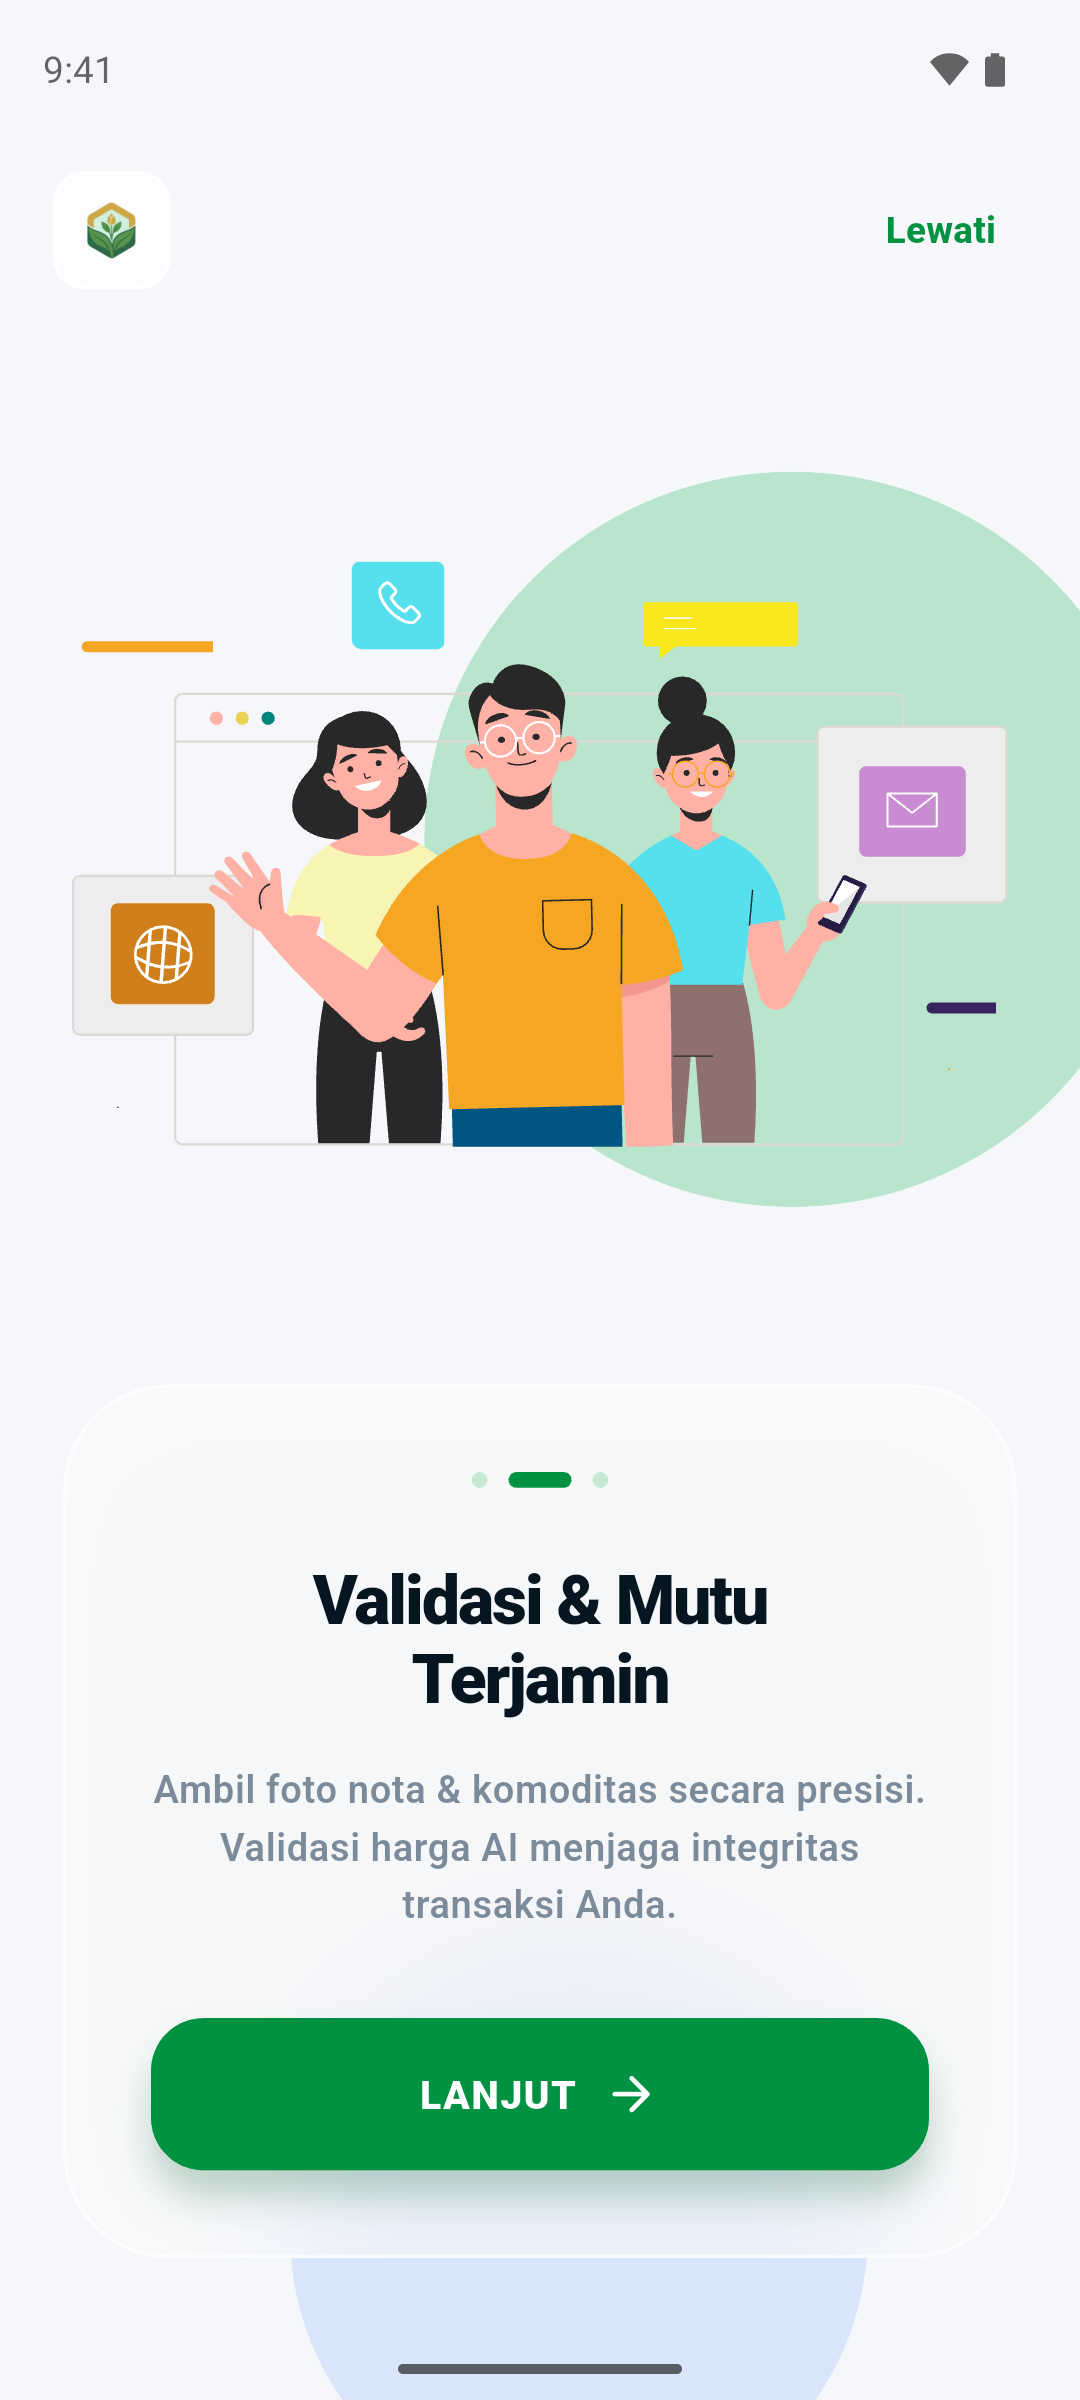
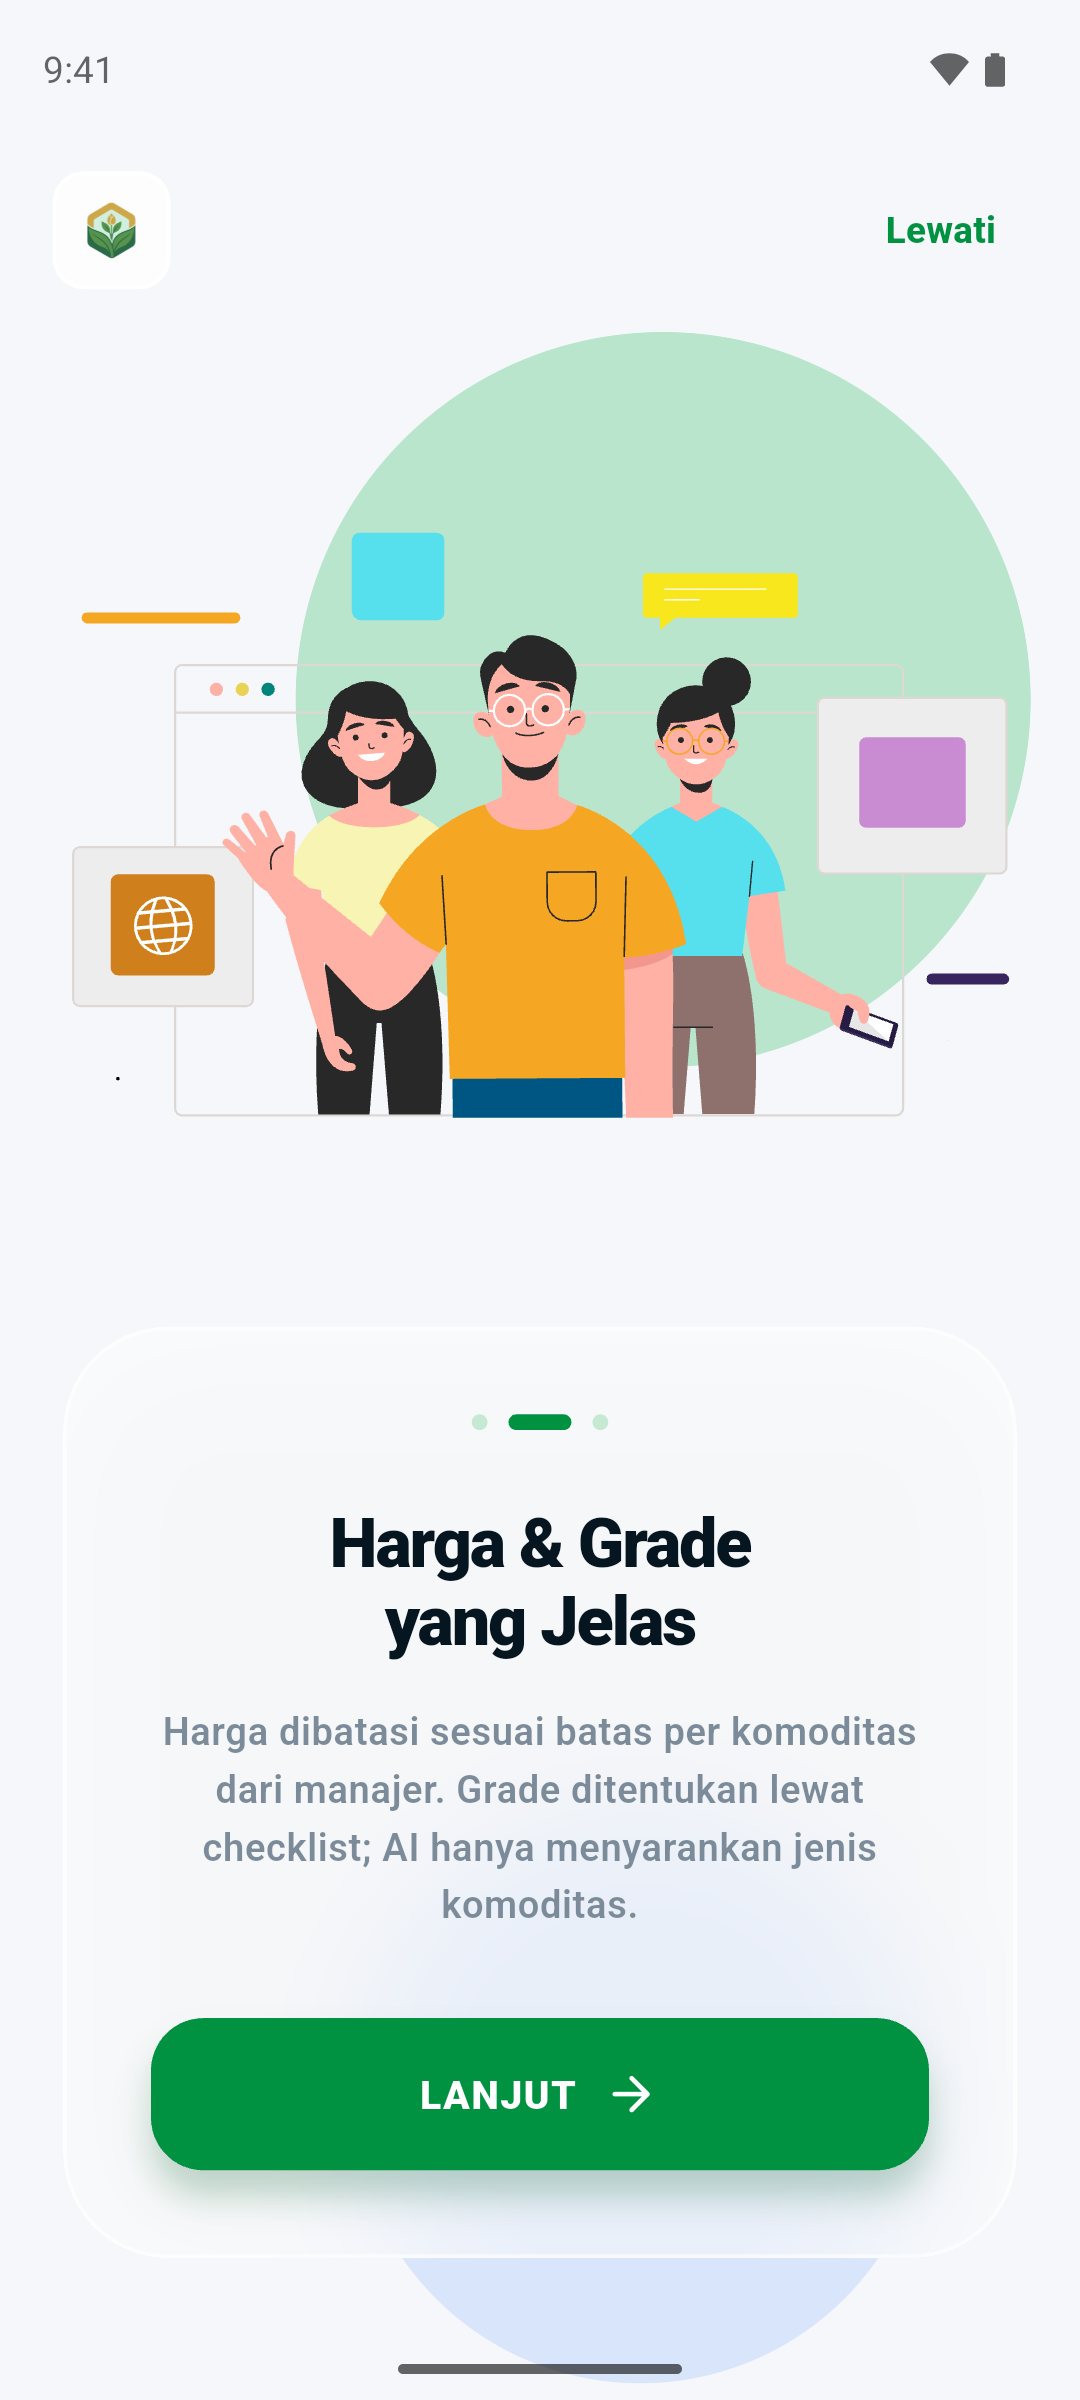
docs(screenshots): retake camera, onboarding, and offline screens with real photos
Camera screens now photograph public-dataset palm and coffee images
placed as posters in the emulator virtual scene, plus a demo receipt
marked as fictional. New shots: honest onboarding text, proof photos in
the transaction detail, OCR and router output as produced, kasbon and
rubric notice, GPS denied in the emulator, the manager's notifications,
and the new commodity load error. The flow grows to 42 files; all PNGs
were recompressed losslessly (pixel-identical) to stay under 15 MB.
INDEX.md credits both datasets and drops the fixed onboarding note.

Changed region(s): [[0.0611, 0.125, 1.0, 0.5], [0.1528, 0.5625, 0.8556, 0.8125], [0.275, 0.9375, 0.7944, 1.0]]

diff --git a/docs/screenshots/INDEX.md b/docs/screenshots/INDEX.md
@@ -1,47 +1,63 @@
 # Screenshots
 
-**Demo data, Nov 2026.** All names, villages, amounts, and transactions are fictional and were seeded into Hive by [`tool/demo/demo_main.dart`](../../tool/demo/demo_main.dart). The app never reached MongoDB Atlas or Cloudinary while these were taken: the demo entrypoint blocks database connections and allows HTTP only to OpenStreetMap tiles.
+**Demo data, Nov 2026.** All names, villages, amounts, and transactions are fictional and were seeded into Hive by [`tool/demo/demo_main.dart`](../../tool/demo/demo_main.dart). The app never reached MongoDB Atlas or Cloudinary while these were taken: the demo entrypoint blocks database connections and allows HTTP only to OpenStreetMap tiles. Notification texts are the ones the app itself produces.
 
-Captured on an Android emulator (API 35, 1080x2400, light mode) with the status bar in SystemUI demo mode (9:41, full battery). The UI language is the app's own (Indonesian). Camera screens show the **emulator camera feed**, not real photos of receipts or crops. Map tiles © [OpenStreetMap](https://www.openstreetmap.org/copyright) contributors.
+Captured on an Android emulator (API 35, 1080x2400, light mode) with the status bar in SystemUI demo mode (9:41, full battery). The UI language is the app's own (Indonesian). Map tiles © [OpenStreetMap](https://www.openstreetmap.org/copyright) contributors.
 
 The account names Asep, Dudung, and `manajer` match the team's test accounts, but no real login took place: the session was seeded locally, because logging in always checks the password against Atlas.
+
+## Camera screens
+
+Camera screens are the **emulator camera feed** (Android emulator virtual scene), not photos taken in the field. Real public-dataset photos were loaded as posters in that scene and photographed through the app's camera:
+
+- Oil palm bunches: Suharjito & Junior, "Annotated Video Dataset of Oil Palm Fruit Bunch Piles for Ripeness Grading", Science Data Bank, DOI [10.57760/sciencedb.j00001.00713](https://doi.org/10.57760/sciencedb.j00001.00713), CC BY 4.0.
+- Green coffee beans: CBD Coffee Beans Dataset, Mendeley Data, DOI [10.17632/52877z55vr.1](https://doi.org/10.17632/52877z55vr.1), CC BY 4.0.
+
+The receipt is a generated image marked "CONTOH / DEMO - FIKTIF" with a "DEMO · FIKTIF" watermark; it is not a real receipt. Commodity suggestions are shown exactly as the router produced them; nothing was adjusted.
+
+## Flow
 
 | File | Screen | Role | State | Notes |
 | :--- | :--- | :--- | :--- | :--- |
 | `01-splash.png` | Splash | All | First launch | |
-| `02-onboarding-1.png` | Onboarding 1/3 | All | First launch | Copy is the app's own text |
-| `03-onboarding-2.png` | Onboarding 2/3 | All | First launch | Copy mentions "AI price validation"; the app does not do that (AI only suggests the commodity) |
-| `04-onboarding-3.png` | Onboarding 3/3 | All | First launch | Copy says "realtime"; sync only runs while the app is open |
+| `02-onboarding-1.png` | Onboarding 1/3 | All | First launch | Offline recording, sent when the connection returns |
+| `03-onboarding-2.png` | Onboarding 2/3 | All | First launch | Price limit per commodity, grade by checklist, AI only suggests the commodity |
+| `04-onboarding-3.png` | Onboarding 3/3 | All | First launch | Manager map and totals from synced data |
 | `05-login.png` | Login | All | Empty form | |
 | `06-login-gagal-offline.png` | Login | All | Login failed, no server | Expected: first login needs the server |
 | `07-agen-beranda.png` | Home | Collector | 7 transactions, 2 pending | |
 | `08-agen-beranda-transaksi.png` | Home (scrolled) | Collector | Max prices, latest transactions | Pending and synced badges |
-| `09-agen-detail-pending.png` | Transaction detail | Collector | Pending sync, kasbon deduction | No photos in seeded data |
-| `10-agen-notifikasi.png` | Notifications | Collector | Sync pending, GPS failed | Seeded notifications |
+| `09-agen-detail-foto.png` | Transaction detail | Collector | Pending, kasbon deduction, proof photos | Seeded local files: dataset palm photo and the demo receipt |
+| `10-agen-notifikasi.png` | Notifications | Collector | Sync failed, saved, synced | App-generated texts |
 | `11-agen-pasar.png` | Market prices | Collector | Max price per grade | |
 | `12-agen-tren-harga.png` | Price trend | Collector | Current max price only | Price history is not stored yet |
 | `13-agen-riwayat.png` | History | Collector | All transactions | |
 | `14-agen-profil-cek-server-gagal.png` | Profile | Collector | Server check failed, never synced, 2 waiting | Last-synced state |
 | `15-agen-mitra-sync-gagal.png` | Farmers | Collector | Sync failed, 2 waiting | |
 | `16-agen-izin-kamera.png` | Camera permission | Collector | Android permission prompt | |
-| `17-agen-kamera-nota.png` | Scanner menu | Collector | Before photos | |
-| `18-agen-kamera-feed.png` | Camera | Collector | Receipt photo 1/2 | Emulator camera feed |
-| `19-agen-sudut-nota.png` | Corner adjust | Collector | Receipt warp | Emulator camera feed |
+| `17-agen-kamera-menu.png` | Scanner menu | Collector | Before photos | |
+| `18-agen-kamera-nota-poster.png` | Camera | Collector | Receipt photo 1/2 | Emulator camera feed; demo receipt poster |
+| `19-agen-sudut-nota.png` | Corner adjust | Collector | Auto-detected corners | Emulator camera feed; corners left as detected (they do not fit the receipt exactly) |
 | `20-agen-kamera-nota-ok.png` | Scanner menu | Collector | Receipt photo taken | Emulator camera feed thumbnail |
-| `21-agen-form-transaksi.png` | Transaction form | Collector | No commodity suggestion | The router found no commodity in the emulator feed |
-| `22-agen-form-dua-foto.png` | Transaction form | Collector | Two photos attached | Emulator camera feed |
-| `23-agen-rubrik-grade.png` | Grade rubric | Collector | Checklist answered, grade A | Rubric `v0.1-draf`, not reviewed by an expert |
-| `24-agen-harga-maks-ditolak.png` | Transaction form | Collector | Price above max reset to the limit | |
-| `25-agen-izin-lokasi.png` | Location permission | Collector | Android permission prompt | Denied on purpose for the next state |
-| `26-agen-simpan-gps-gagal.png` | Save result | Collector | Saved without GPS | Location stored as null |
-| `27-agen-pencairan-kasbon.png` | Kasbon disbursement | Collector | Current debt shown | |
-| `28-agen-pencairan-tersimpan.png` | Disbursement result | Collector | Saved locally, queued | Debt grows from Rp1.7M to Rp2.2M |
-| `29-agen-riwayat-pending.png` | History (pending) | Collector | Disbursements and purchase waiting | Disbursements cannot be edited |
-| `30-manajer-beranda.png` | Manager home | Manager | Totals across collectors | |
-| `31-manajer-analitik.png` | Analytics | Manager | Sync ratio, stock per commodity | |
-| `32-manajer-analitik-lanjut.png` | Analytics (scrolled) | Manager | Grade breakdown | |
-| `33-manajer-peta.png` | Map | Manager | Transactions with coordinates | Fictional points; OSM tiles |
-| `34-manajer-komoditas-offline-kosong.png` | Commodity management | Manager | Empty while offline | This screen reads from the server only, so it is empty without Atlas |
-| `35-manajer-form-harga-maks.png` | Add commodity | Manager | Max price per grade | Example filled in, not saved |
-| `36-manajer-pengepul.png` | Collectors | Manager | Two collectors | "Online" is derived from recent demo transactions |
-| `37-manajer-detail-agen.png` | Collector detail | Manager | Cash and last 5 transactions | |
+| `21-agen-kamera-sawit-poster.png` | Camera | Collector | Commodity photo 2/2 | Emulator camera feed; dataset palm photo posters |
+| `22-agen-form-saran-ai.png` | Transaction form | Collector | No commodity suggestion | Router (still): not a commodity 0.85, coffee 0.08, palm 0.07 |
+| `23-agen-form-ocr-dua-foto.png` | Transaction form | Collector | OCR weight and price, two photos | 1250 kg and Rp1,950 read from the demo receipt |
+| `24-agen-form-kasbon-rubrik.png` | Transaction form | Collector | Kasbon to deduct, rubric draft notice | Rubric `v0.1-draf`, not reviewed by an expert |
+| `25-agen-rubrik-grade.png` | Grade rubric | Collector | Checklist answered, grade A | |
+| `26-agen-harga-maks-ditolak.png` | Transaction form | Collector | Price above max reset to the limit | |
+| `27-agen-izin-lokasi.png` | Location permission | Collector | Android permission prompt | Denied on purpose |
+| `28-agen-simpan-gps-gagal.png` | Save result | Collector | Saved without GPS | Location permission denied in the emulator; stored as null |
+| `29-agen-kamera-kopi-poster.png` | Camera | Collector | Commodity photo | Emulator camera feed; dataset coffee photo posters |
+| `30-agen-form-saran-ai-kopi.png` | Transaction form | Collector | No commodity suggestion | Router (still): not a commodity 0.98, coffee 0.01 |
+| `31-agen-pencairan-kasbon.png` | Kasbon disbursement | Collector | Current debt shown | |
+| `32-agen-pencairan-tersimpan.png` | Disbursement result | Collector | Saved locally, queued | Debt grows from Rp1.7M to Rp2.2M |
+| `33-agen-riwayat-pending.png` | History (pending) | Collector | Disbursements and purchase waiting | Disbursements cannot be edited |
+| `34-manajer-beranda.png` | Manager home | Manager | Totals across collectors | |
+| `35-manajer-notifikasi.png` | Notifications | Manager | New transactions, sync failed | App-generated texts; the app's sync pill overlaps the first title |
+| `36-manajer-analitik.png` | Analytics | Manager | Sync ratio, stock per commodity | |
+| `37-manajer-analitik-lanjut.png` | Analytics (scrolled) | Manager | Grade breakdown | |
+| `38-manajer-peta.png` | Map | Manager | Transactions with coordinates | Fictional points; OSM tiles |
+| `39-manajer-komoditas-gagal-muat.png` | Commodity management | Manager | Load failed, retry button | This screen reads from the server only |
+| `40-manajer-form-harga-maks.png` | Add commodity | Manager | Max price per grade | Example filled in, not saved |
+| `41-manajer-pengepul.png` | Collectors | Manager | Two collectors | "Online" is derived from recent demo transactions |
+| `42-manajer-detail-agen.png` | Collector detail | Manager | Cash and last 5 transactions | |
